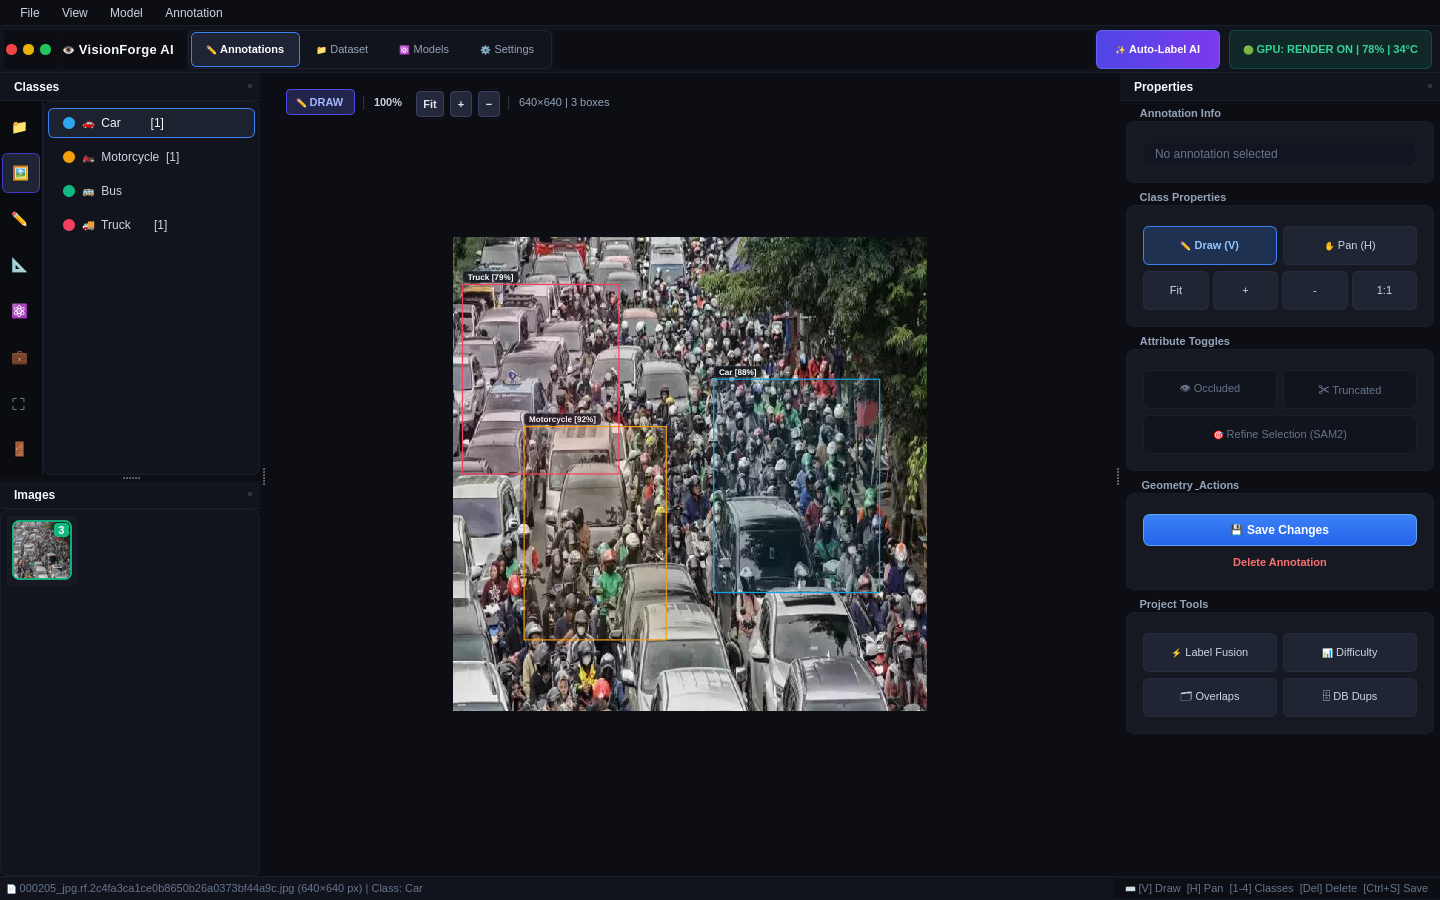
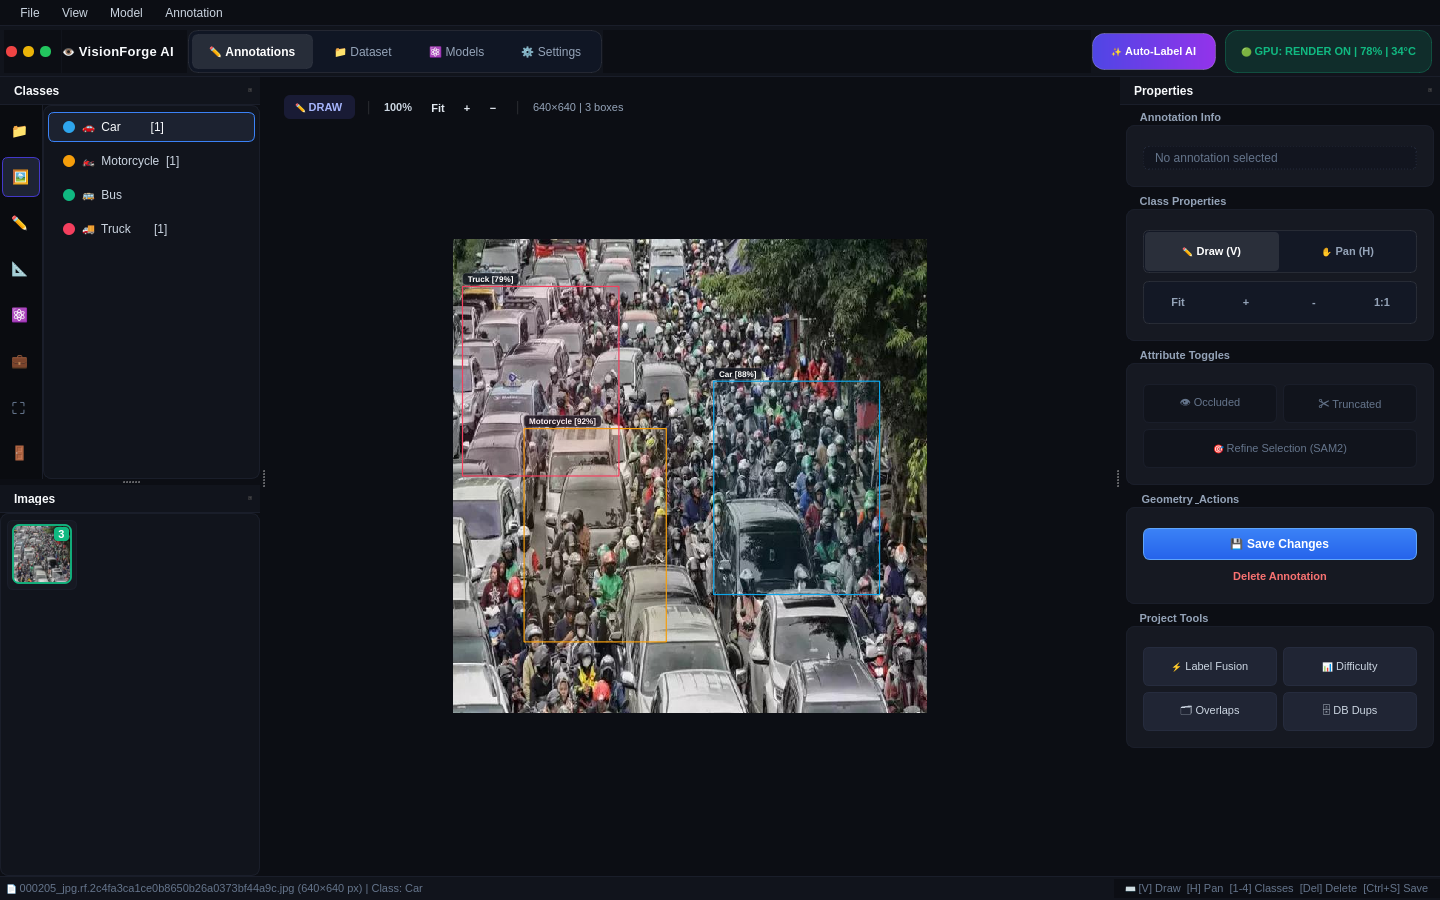
Refine UI to precisely match Option 4 seamless pill styling

diff --git a/app/ui/main_window.py b/app/ui/main_window.py
@@ -644,46 +644,43 @@ class MainWindow(QMainWindow):
         # 3. Center Segmented View Buttons
         seg_container = QWidget()
         seg_layout = QHBoxLayout(seg_container)
-        seg_layout.setContentsMargins(3, 2, 3, 2)
-        seg_layout.setSpacing(2)
+        seg_layout.setContentsMargins(4, 4, 4, 4)
+        seg_layout.setSpacing(4)
         seg_container.setStyleSheet(
-            "background: #11141c; border: 1px solid #1f2535; border-radius: 7px;"
+            "background: rgba(15, 23, 42, 0.6); border: 1px solid rgba(255, 255, 255, 0.08); border-radius: 10px;"
+        )
+
+        active_tab_style = (
+            "background: rgba(255, 255, 255, 0.1); border: 1px solid rgba(255, 255, 255, 0.05); "
+            "border-radius: 6px; color: #ffffff; font-weight: 600; font-size: 12px; padding: 4px 12px;"
+        )
+        inactive_tab_style = (
+            "background: transparent; border: none; border-radius: 6px; "
+            "color: #94a3b8; font-weight: 500; font-size: 12px; padding: 4px 12px;"
         )
 
         ann_tab = QToolButton(self)
         ann_tab.setText("✏ Annotations")
         ann_tab.setCheckable(True)
         ann_tab.setChecked(True)
-        ann_tab.setStyleSheet(
-            "background: #1e2434; border: 1px solid #3b82f6; border-radius: 5px; "
-            "color: #ffffff; font-weight: 600; font-size: 11px; padding: 4px 10px;"
-        )
+        ann_tab.setStyleSheet(active_tab_style)
         seg_layout.addWidget(ann_tab)
 
         dataset_tab = QToolButton(self)
         dataset_tab.setText("📁 Dataset")
-        dataset_tab.setStyleSheet(
-            "background: transparent; border: none; border-radius: 5px; "
-            "color: #94a3b8; font-weight: 500; font-size: 11px; padding: 4px 10px;"
-        )
+        dataset_tab.setStyleSheet(inactive_tab_style)
         dataset_tab.clicked.connect(self._import_folder)
         seg_layout.addWidget(dataset_tab)
 
         models_tab = QToolButton(self)
         models_tab.setText("⚛ Models")
-        models_tab.setStyleSheet(
-            "background: transparent; border: none; border-radius: 5px; "
-            "color: #94a3b8; font-weight: 500; font-size: 11px; padding: 4px 10px;"
-        )
+        models_tab.setStyleSheet(inactive_tab_style)
         models_tab.clicked.connect(self._load_yolo_model)
         seg_layout.addWidget(models_tab)
 
         settings_tab = QToolButton(self)
         settings_tab.setText("⚙ Settings")
-        settings_tab.setStyleSheet(
-            "background: transparent; border: none; border-radius: 5px; "
-            "color: #94a3b8; font-weight: 500; font-size: 11px; padding: 4px 10px;"
-        )
+        settings_tab.setStyleSheet(inactive_tab_style)
         seg_layout.addWidget(settings_tab)
         self._top_toolbar.addWidget(seg_container)
 
@@ -697,9 +694,9 @@ class MainWindow(QMainWindow):
         auto_label_btn.setText("✨ Auto-Label AI")
         auto_label_btn.setToolTip("Open Roboflow-style Auto Label workspace (Ctrl+Shift+A)")
         auto_label_btn.setStyleSheet(
-            "background: qlineargradient(x1:0, y1:0, x2:1, y2:0, stop:0 #4f46e5, stop:1 #7c3aed); "
-            "border: 1px solid #6366f1; color: #ffffff; font-weight: 700; font-size: 11px; "
-            "border-radius: 6px; padding: 5px 14px; margin-right: 8px;"
+            "background: qlineargradient(x1:0, y1:0, x2:1, y2:0, stop:0 #4f46e5, stop:1 #9333ea); "
+            "border: 1px solid rgba(255, 255, 255, 0.2); color: #ffffff; font-weight: 600; font-size: 11px; "
+            "border-radius: 12px; padding: 4px 14px; margin-right: 8px;"
         )
         auto_label_btn.clicked.connect(self._open_auto_label_dialog)
         self._top_toolbar.addWidget(auto_label_btn)
@@ -710,9 +707,9 @@ class MainWindow(QMainWindow):
         dev_text = f"🟢 GPU: RENDER ON | {gpu.device.upper()} | 34°C" if is_cuda else "🟢 GPU: RENDER ON | 78% | 34°C"
         self._device_chip = QLabel(dev_text)
         self._device_chip.setStyleSheet(
-            "color: #34d399; font-size: 11px; font-weight: 600; "
-            "background: rgba(16, 185, 129, 0.12); border: 1px solid rgba(16, 185, 129, 0.28); "
-            "border-radius: 6px; padding: 5px 10px; margin-right: 4px;"
+            "color: #10b981; font-size: 11px; font-weight: 700; "
+            "background: rgba(16, 185, 129, 0.15); border: 1px solid rgba(16, 185, 129, 0.3); "
+            "border-radius: 12px; padding: 4px 12px; margin-right: 4px;"
         )
         self._top_toolbar.addWidget(self._device_chip)
 
@@ -1126,25 +1123,34 @@ class MainWindow(QMainWindow):
         self._tools_group = QGroupBox("Class Properties")
         tools_layout = QVBoxLayout(self._tools_group)
         tools_layout.setContentsMargins(8, 8, 8, 8)
-        tools_layout.setSpacing(6)
+        tools_layout.setSpacing(8)
 
-        mode_row = QHBoxLayout()
-        mode_row.setSpacing(6)
+        mode_container = QWidget()
+        mode_layout = QHBoxLayout(mode_container)
+        mode_layout.setContentsMargins(2, 2, 2, 2)
+        mode_layout.setSpacing(2)
+        mode_container.setStyleSheet(
+            "QWidget { background: rgba(15, 23, 42, 0.4); border: 1px solid rgba(255, 255, 255, 0.08); border-radius: 6px; }"
+            "QToolButton { background: transparent; border: none; border-radius: 4px; color: #94a3b8; font-size: 11px; font-weight: 600; padding: 6px; }"
+            "QToolButton:checked { background: rgba(255, 255, 255, 0.1); color: #ffffff; }"
+            "QToolButton:hover:!checked { background: rgba(255, 255, 255, 0.05); }"
+        )
+
         self._draw_tool_btn = QToolButton(self)
         self._draw_tool_btn.setText("✏ Draw (V)")
         self._draw_tool_btn.setCheckable(True)
         self._draw_tool_btn.setChecked(True)
         self._draw_tool_btn.setSizePolicy(QSizePolicy.Policy.Expanding, QSizePolicy.Fixed)
         self._draw_tool_btn.clicked.connect(self.canvas.set_draw_mode)
-        mode_row.addWidget(self._draw_tool_btn, 1)
+        mode_layout.addWidget(self._draw_tool_btn, 1)
 
         self._pan_tool_btn = QToolButton(self)
         self._pan_tool_btn.setText("✋ Pan (H)")
         self._pan_tool_btn.setCheckable(True)
         self._pan_tool_btn.setSizePolicy(QSizePolicy.Policy.Expanding, QSizePolicy.Fixed)
         self._pan_tool_btn.clicked.connect(self.canvas.set_pan_mode)
-        mode_row.addWidget(self._pan_tool_btn, 1)
-        tools_layout.addLayout(mode_row)
+        mode_layout.addWidget(self._pan_tool_btn, 1)
+        tools_layout.addWidget(mode_container)
 
         canvas_mode_group = QButtonGroup(self)
         canvas_mode_group.addButton(self._draw_tool_btn)
@@ -1154,32 +1160,41 @@ class MainWindow(QMainWindow):
         draw_tool.toggled.connect(self._draw_tool_btn.setChecked)
         pan_tool.toggled.connect(self._pan_tool_btn.setChecked)
 
-        zoom_row = QHBoxLayout()
-        zoom_row.setSpacing(4)
+        zoom_container = QWidget()
+        zoom_layout = QHBoxLayout(zoom_container)
+        zoom_layout.setContentsMargins(2, 2, 2, 2)
+        zoom_layout.setSpacing(2)
+        zoom_container.setStyleSheet(
+            "QWidget { background: rgba(15, 23, 42, 0.4); border: 1px solid rgba(255, 255, 255, 0.08); border-radius: 6px; }"
+            "QToolButton { background: transparent; border: none; border-radius: 4px; color: #94a3b8; font-size: 11px; font-weight: 600; padding: 6px; }"
+            "QToolButton:hover { background: rgba(255, 255, 255, 0.08); color: #ffffff; }"
+            "QToolButton:pressed { background: rgba(255, 255, 255, 0.12); }"
+        )
+
         fit_btn = QToolButton(self)
         fit_btn.setText("Fit")
         fit_btn.setSizePolicy(QSizePolicy.Policy.Expanding, QSizePolicy.Fixed)
         fit_btn.clicked.connect(self.canvas.reset_view)
-        zoom_row.addWidget(fit_btn, 1)
+        zoom_layout.addWidget(fit_btn, 1)
 
         zoom_in_btn = QToolButton(self)
         zoom_in_btn.setText("+")
         zoom_in_btn.setSizePolicy(QSizePolicy.Policy.Expanding, QSizePolicy.Fixed)
         zoom_in_btn.clicked.connect(lambda: self.canvas.zoom_in())
-        zoom_row.addWidget(zoom_in_btn, 1)
+        zoom_layout.addWidget(zoom_in_btn, 1)
 
         zoom_out_btn = QToolButton(self)
         zoom_out_btn.setText("-")
         zoom_out_btn.setSizePolicy(QSizePolicy.Policy.Expanding, QSizePolicy.Fixed)
         zoom_out_btn.clicked.connect(lambda: self.canvas.zoom_out())
-        zoom_row.addWidget(zoom_out_btn, 1)
+        zoom_layout.addWidget(zoom_out_btn, 1)
 
         zoom_actual_btn = QToolButton(self)
         zoom_actual_btn.setText("1:1")
         zoom_actual_btn.setSizePolicy(QSizePolicy.Policy.Expanding, QSizePolicy.Fixed)
         zoom_actual_btn.clicked.connect(self.canvas.zoom_actual_size)
-        zoom_row.addWidget(zoom_actual_btn, 1)
-        tools_layout.addLayout(zoom_row)
+        zoom_layout.addWidget(zoom_actual_btn, 1)
+        tools_layout.addWidget(zoom_container)
         self._properties_layout.addWidget(self._tools_group)
 
         # 3. Attribute Toggles Card

diff --git a/app/ui/canvas/annotation_canvas.py b/app/ui/canvas/annotation_canvas.py
@@ -148,8 +148,8 @@ class CanvasHud(QWidget):
         self.canvas = canvas
         self.setObjectName("canvasHud")
         layout = QHBoxLayout(self)
-        layout.setContentsMargins(8, 4, 8, 4)
-        layout.setSpacing(6)
+        layout.setContentsMargins(6, 6, 6, 6)
+        layout.setSpacing(4)
 
         # Location / Image Breadcrumb
         self.tool_label = QLabel("📍 Berlin, Germany")
@@ -160,7 +160,7 @@ class CanvasHud(QWidget):
 
         # Separator
         sep1 = QLabel("│")
-        sep1.setStyleSheet("color: #3b4256; font-size: 11px;")
+        sep1.setStyleSheet("color: rgba(255, 255, 255, 0.15); font-size: 11px; margin: 0 4px;")
         layout.addWidget(sep1)
 
         # Zoom Controls
@@ -194,7 +194,7 @@ class CanvasHud(QWidget):
 
         # Separator
         sep2 = QLabel("│")
-        sep2.setStyleSheet("color: #3b4256; font-size: 11px;")
+        sep2.setStyleSheet("color: rgba(255, 255, 255, 0.15); font-size: 11px; margin: 0 4px;")
         layout.addWidget(sep2)
 
         # Stats Label
@@ -204,22 +204,25 @@ class CanvasHud(QWidget):
 
         self.setStyleSheet("""
             QWidget#canvasHud {
-                background: rgba(19, 22, 32, 0.88);
-                border: 1px solid #2d354b;
-                border-radius: 8px;
+                background: rgba(15, 23, 42, 0.85);
+                border: 1px solid rgba(255, 255, 255, 0.08);
+                border-radius: 12px;
             }
             QToolButton {
-                background: #23293a;
-                border: 1px solid #36415d;
-                border-radius: 4px;
+                background: transparent;
+                border: none;
+                border-radius: 6px;
                 color: #e2e8f0;
                 font-size: 11px;
                 font-weight: 600;
                 padding: 0;
             }
             QToolButton:hover {
-                background: #2c344a;
-                border-color: #6366f1;
+                background: rgba(255, 255, 255, 0.1);
+                color: #ffffff;
+            }
+            QToolButton:pressed {
+                background: rgba(255, 255, 255, 0.15);
             }
         """)
         self.adjustSize()
@@ -354,14 +357,14 @@ class AnnotationCanvas(QGraphicsView):
         if self._mode == CanvasMode.DRAW:
             self._hud.tool_label.setText("✏ DRAW")
             self._hud.tool_label.setStyleSheet(
-                "color: #a5b4fc; font-weight: 700; font-size: 11px; padding: 2px 6px; "
-                "background: rgba(99, 102, 241, 0.25); border-radius: 4px; border: 1px solid #4f46e5;"
+                "color: #a5b4fc; font-weight: 700; font-size: 11px; padding: 4px 8px; "
+                "background: rgba(99, 102, 241, 0.15); border-radius: 6px; border: none;"
             )
         else:
             self._hud.tool_label.setText("✋ PAN")
             self._hud.tool_label.setStyleSheet(
-                "color: #38bdf8; font-weight: 700; font-size: 11px; padding: 2px 6px; "
-                "background: rgba(14, 165, 233, 0.25); border-radius: 4px; border: 1px solid #0284c7;"
+                "color: #38bdf8; font-weight: 700; font-size: 11px; padding: 4px 8px; "
+                "background: rgba(14, 165, 233, 0.15); border-radius: 6px; border: none;"
             )
 
         # Zoom level
